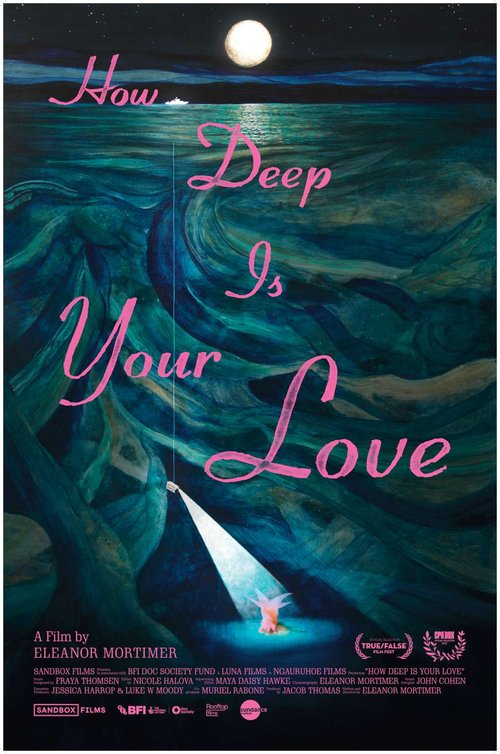
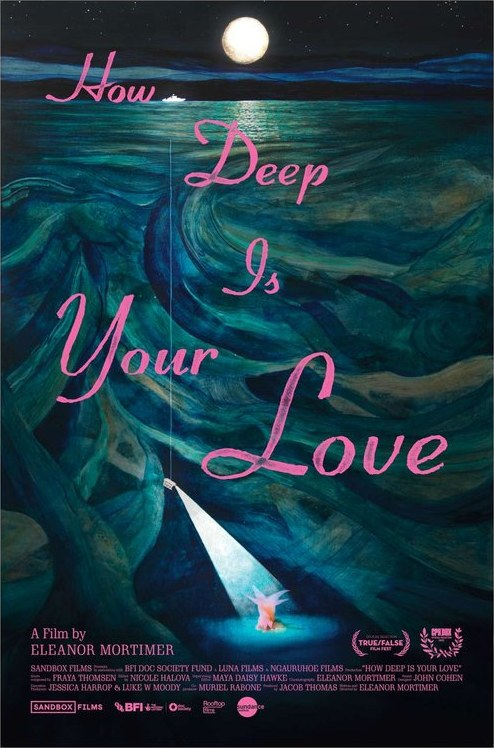
fix(design): el poster editorial viaja como card, el radio deja de brincar
1) EDITORIAL. Un poster editorial no es una imagen: es una card compuesta
   (banda + still + capa .ed-blur). El selector devolvia la primera <img> en
   orden de documento, que era .ed-blur —una capa borrosa MAS GRANDE que la
   card (73x78 vs 56x84)— asi que volaba un rectangulo suelto mientras la card
   real ya estaba visible. Ahora viaja la card completa por cloneNode.

2) RADIO. Unificar el token NO bastaba: transform:scale() escala tambien el
   border-radius. 12px con escala 1.71 (thumb de corto -> ficha) se renderizan
   como 20.6px y caian de golpe al soltar el clon — de ahi el brinco, justo
   donde mas escala hay. Ahora el radio se contra-escala: medido 12.0 -> 12.8
   -> 12.0px renderizados, aterrizando exacto sobre el destino.

3) ENCUADRE. El clon encuadraba center y el destino center top, asi que la
   imagen se re-acomodaba en el traspaso. Ahora hereda object-position y radio
   del destino.

4) BLUR de 14px a 0 sobre 460ms (antes 5px).

5) POSTERS. How Deep Is Your Love traia un marco BLANCO de 3px embebido.
   Escaneados los 35 buscando bordes claros Y oscuros (antes solo negros):
   6 recortados. Tres dejados intactos a proposito —above-all, el-amor-duerme,
   the-cost-of-growth tienen fondo claro que el detector confundio con borde;
   recortar 112px por lado le habria cortado el titulo a uno.

Verificado: aterrizaje sub-pixel en 4 aperturas, los 6 recortes revisados a ojo.

validate.py OK · 296/296 unit · 144/144 Playwright

diff --git a/src/main.js b/src/main.js
@@ -446,7 +446,7 @@ FESTIVAL_STORAGE_KEY=(storage.getActiveFestId()||_DEFAULT_FEST_ID)+'_';
 // BUILD_VERSION: cambia en cada deploy.
 // Al cargar, compara con localStorage. Si difiere → reload duro.
 // sessionStorage evita loops infinitos dentro de la misma sesión.
-const BUILD_VERSION='202607291713';
+const BUILD_VERSION='202607291731';
 (function(){
   // _vk eliminado — el build version se accede vía storage.getBuild()/setBuild()
   const _sk='otrofestiv_reloaded';
@@ -973,9 +973,20 @@ const _FLIGHT_MS=560; // curva enfática: cola larga desacelerando (ver .poster-
 // _morphOpen(sourceEl, openFn) — dueño ÚNICO del viaje del póster. sourceEl
 // contiene el póster de origen (card del grid O thumb de un corto dentro de un
 // programa); openFn hace el render síncrono del destino. Reusado por ambos.
+// Nodo que viaja. Un póster EDITORIAL no es una imagen: es una card compuesta
+// (.poster-ed = banda de sección + still + capa .ed-blur decorativa). Antes se
+// clonaba la primera <img> del subárbol, que resultaba ser .ed-blur —una capa
+// borrosa MÁS GRANDE que la card (73×78 vs 56×84)—, así que volaba un rectángulo
+// suelto mientras la card real ya estaba visible. Se clona la card COMPLETA:
+// banda y still viajan juntos y escalan como una pieza.
+function _flightNode(root){
+  if(!root||!root.querySelector) return null;
+  if(root.matches&&root.matches('.poster-ed')) return root;
+  return root.querySelector('.poster-ed')||root.querySelector('.img-cover')||root.querySelector('img');
+}
 function _morphOpen(sourceEl, openFn){
   const reduce = window.matchMedia && matchMedia('(prefers-reduced-motion: reduce)').matches;
-  const src = sourceEl && sourceEl.querySelector && sourceEl.querySelector('.ed-still, .img-cover, img'); // cubre thumb simple (img) y editorial (.ed-still) de cortos también
+  const src = _flightNode(sourceEl);
   const a = src && src.getBoundingClientRect();
   if(reduce || _vtBusy || !src || !a || !a.width){ openFn(); return; }
   _vtBusy=true;
@@ -985,7 +996,9 @@ function _morphOpen(sourceEl, openFn){
     openFn(); // render síncrono + .open → sheet (spring) y velo (escalera) arrancan YA, visibles
     const sheet=document.getElementById('pel-sheet')||_sheet0;
     if(sheet) sheet.classList.add('vt-in'); // stagger de la meta (vtRise, CSS puro)
-    const dst=document.querySelector('.pel-sheet-poster, .pel-sheet-poster-stage img, .psp-editorial img, .pel-sheet .ed-still');
+    // Destino: la card COMPUESTA cuando es editorial (.psp-editorial), la imagen
+    // cuando es un póster normal. Nunca una capa interna.
+    const dst=document.querySelector('.psp-editorial, .pel-sheet-poster, .pel-sheet-poster-stage');
     if(!dst||!sheet){ setTimeout(_clean,_FLIGHT_MS); return; }
     // Rect FINAL del destino: el sheet aún está en translateY(100%) (el spring
     // recién arranca), así que se proyecta: posición del dst relativa al sheet +
@@ -993,20 +1006,28 @@ function _morphOpen(sourceEl, openFn){
     const sr=sheet.getBoundingClientRect(), dr=dst.getBoundingClientRect();
     const finalTop=window.innerHeight-sheet.offsetHeight+(dr.top-sr.top);
     const b={left:dr.left, top:finalTop, width:dr.width||1, height:dr.height||1};
-    // Clon en vuelo: transform-only (translate+scale), nunca layout por frame.
-    const fly=document.createElement('img');
-    fly.className='poster-flight';
-    fly.src=src.currentSrc||src.src;
-    fly.style.cssText=`left:${a.left}px;top:${a.top}px;width:${a.width}px;height:${a.height}px`;
+    const sx=b.width/a.width, sy=b.height/a.height;
+    // Clon de la card ENTERA (editorial: banda + still viajan juntos). Solo
+    // transform, nunca layout por frame.
+    const fly=src.cloneNode(true);
+    fly.classList.add('poster-flight');
+    fly.removeAttribute('id');
+    // Encuadre y radio del DESTINO: el clon debe recortar y redondear como aquello
+    // en lo que se convierte, o la imagen se re-acomoda dentro del marco al soltar.
+    const _cs=getComputedStyle(dst);
+    const _rBase=parseFloat(_cs.borderRadius)||12;
+    // Contra-escala del radio: transform:scale() escala el border-radius, así que
+    // el valor final va dividido por la escala para que el RENDERIZADO no cambie.
+    fly.style.cssText=`left:${a.left}px;top:${a.top}px;width:${a.width}px;height:${a.height}px;`+
+      `border-radius:${_rBase}px;object-position:${_cs.objectPosition};`+
+      `filter:blur(14px)`;
     document.body.appendChild(fly);
     dst.style.opacity='0';          // el real espera a que aterrice el clon
     src.style.opacity='0';          // la card no muestra doble póster
-    // El radio NO se anima: las 6 superficies de póster comparten --r-poster, así
-    // que el clon nace y aterriza con la misma redondez (guardián [poster-radius]).
-    // Solo transform (posición/escala) y filter (blur→foco). Dos rAF: el primer
-    // frame fija el estado inicial, el segundo dispara la transición.
+    // Dos rAF: el primero fija el estado inicial, el segundo dispara la transición.
     requestAnimationFrame(()=>requestAnimationFrame(()=>{
-      fly.style.transform=`translate(${b.left-a.left}px,${b.top-a.top}px) scale(${b.width/a.width},${b.height/a.height})`;
+      fly.style.transform=`translate(${b.left-a.left}px,${b.top-a.top}px) scale(${sx},${sy})`;
+      fly.style.borderRadius=`${_rBase/Math.max(sx,0.01)}px`;
       fly.style.filter='blur(0px)';
     }));
     setTimeout(()=>{

diff --git a/index.html b/index.html
@@ -59,8 +59,8 @@ window.sentryOnLoad = function() {
      contraste en la pestaña ("borde blanco"). La marca flotante contrasta sola
      en tema claro y oscuro — sin caja, sin backdrop. El apple-touch-icon del
      home screen conserva el ícono completo con fondo (ahí sí corresponde). -->
-<link rel="icon" type="image/png" sizes="32x32" href="/favicon.png?v=202607291713">
-<link rel="icon" type="image/png" sizes="192x192" href="/favicon-192.png?v=202607291713">
+<link rel="icon" type="image/png" sizes="32x32" href="/favicon.png?v=202607291731">
+<link rel="icon" type="image/png" sizes="192x192" href="/favicon-192.png?v=202607291731">
 <!-- Caching gestionado por el Service Worker (sw.js) — Network First para HTML -->
 <title>Otrofestiv — Tú decides el festival</title>
 <meta name="description" content="Tu agenda personal para festivales de cine. Explorá, planificá y sacá el máximo de cada festival.">
@@ -1049,10 +1049,23 @@ h1.hdr-wordmark,.hdr-wordmark{margin:0;font-family:var(--font);font-size:var(--t
    antes de aterrizar) — filter, no backdrop-filter: el guardián
    [no-animated-blur] solo prohíbe el segundo, y sobre un clon pequeño el raster
    es barato. */
-.poster-flight{position:fixed;z-index:9002;object-fit:cover;border-radius:var(--r-poster);
+/* RADIO CONTRA-ESCALADO (29 jul 2026): `transform:scale()` escala TAMBIÉN el
+   border-radius. El clon nace al tamaño de la card y aterriza al de la ficha
+   (84→96, y 56→96 desde un thumb de corto), así que el radio RENDERIZADO se
+   inflaba por el factor de escala y caía de golpe al aterrizar — se veía cambiar
+   de redondez y "brincaba" justo en los casos de más escala. Unificar el token
+   NO bastaba. El JS fija --fr = --r-poster / escala en el estado final, así que
+   radio × escala ≈ constante en todo el vuelo.
+   ENCUADRE: object-position se hereda del destino (--fp) para que el recorte del
+   clon sea el mismo que el del póster real — antes el clon encuadraba `center` y
+   la ficha `center top`, y la imagen se re-acomodaba dentro del marco al soltar. */
+.poster-flight{position:fixed;z-index:9002;object-fit:cover;
+  border-radius:var(--fr,var(--r-poster));object-position:var(--fp,center);
   transform-origin:top left;pointer-events:none;will-change:transform;
-  filter:blur(5px);
-  transition:transform .56s cubic-bezier(.2,0,0,1),filter .34s cubic-bezier(.3,0,.4,1)}
+  filter:blur(var(--fb,14px));
+  transition:transform .56s cubic-bezier(.2,0,0,1),
+             border-radius .56s cubic-bezier(.2,0,0,1),
+             filter .46s cubic-bezier(.3,0,.5,1)}
 @keyframes vtRise{from{opacity:0;transform:translateY(9px)}to{opacity:1;transform:translateY(0)}}
 /* Sin fundido: para lo que NO descansa en opacity:1 (el enlace de Letterboxd
    vive al .6), animar la opacidad a 1 y luego soltar la clase producía un
@@ -3032,7 +3045,7 @@ setTimeout(function(){
   function bootApp(){
     var s = document.createElement('script');
     s.type = 'module';
-    s.src="/src/main.js?v=202607291713";
+    s.src="/src/main.js?v=202607291731";
     document.body.appendChild(s);
     // Watchdog de boot (P0 18 jul): si el grafo ESM murió en el import (caché
     // HTTP mixta tras deploys en ráfaga — main.js nuevo + módulo viejo sin el

diff --git a/sw.js b/sw.js
@@ -9,8 +9,8 @@
 //      el reload forzado por deploy, se sirve ese HTML en vez de OFFLINE_HTML (una
 //      sesión viva ya no se destruye por un deploy con señal mala). Audit P3 #10.
 
-const CACHE_NAME = 'otrofestiv-v202607291713';
-const BUILD = '202607291713';
+const CACHE_NAME = 'otrofestiv-v202607291731';
+const BUILD = '202607291731';
 // Caché PERSISTENTE de assets inmutables (pósters, iconos, fonts): NO se borra
 // en activate. Durante un festival deployamos a diario; sin esto, cada deploy
 // obligaba a re-descargar ~8MB de pósters ya vistos (señal rural en sede).

diff --git a/validate.py b/validate.py
@@ -2520,7 +2520,7 @@ try:
     #   i18n.js (diccionarios es/en, es DATA) · sheets-controller.js · handlers.js
     _ALLOW = {
         'src/view/agenda.js': 1622,
-        'src/main.js': 1641,  # +25 total: _morphOpen a FLIP (fuera startViewTransition, entra clon en vuelo con curva y blur) (29 jul)
+        'src/main.js': 1662,  # +46 total: _morphOpen a FLIP — clon de la card compuesta, radio contra-escalado, encuadre del destino (29 jul)
         'src/i18n/i18n.js': 1409,  # +4 (net): anclaje (label+texto) y Q&A con referentes, ×3 locales (29 jul)
         'src/controller/sheets-controller.js': 1424,  # +17: qa_type, 40 países que faltaban en _COUNTRY_FLAGS y flags del corto desde richItem (29 jul 2026)
         'src/controller/handlers.js': 935,  # +20: anclaje de función en toggleWL, simétrico al quitar (29 jul)

diff --git a/CLAUDE.md b/CLAUDE.md
@@ -3,7 +3,7 @@
 > No editar a mano — los cambios se sobreescriben en el próximo deploy.
 > Para modificar secciones estáticas, editar el template en el script.
 >
-> Último commit: `60e5895 fix(ui): el aviso pierde la caja y el corto recupera el aire tras la sinopsis (#462)`
+> Último commit: `be1fa65 fix(design): el viaje del poster — curva, blur, un solo radio y sin escalon (#463)`
 
 ---
 
